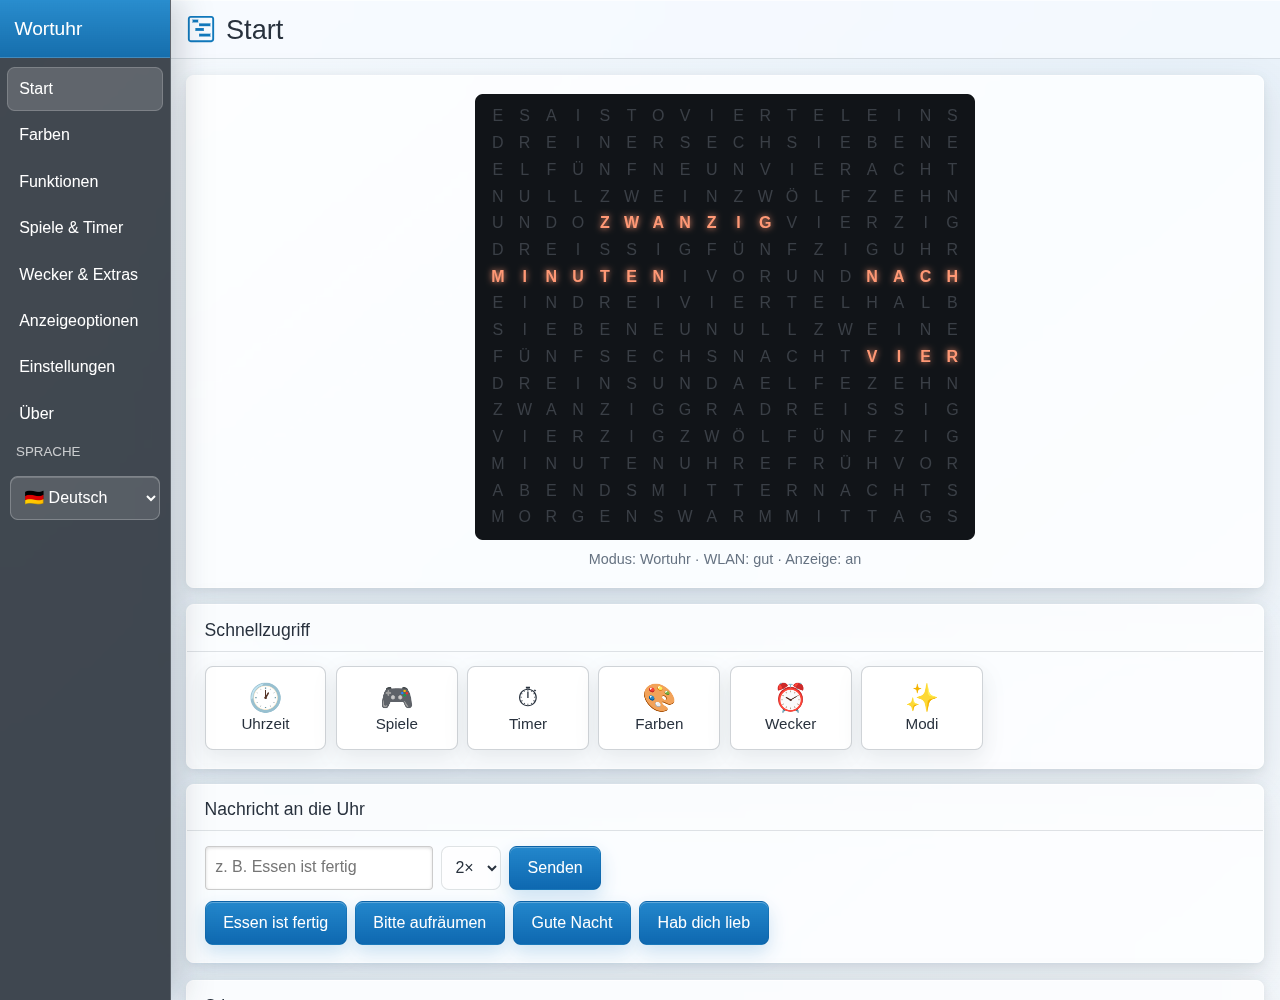
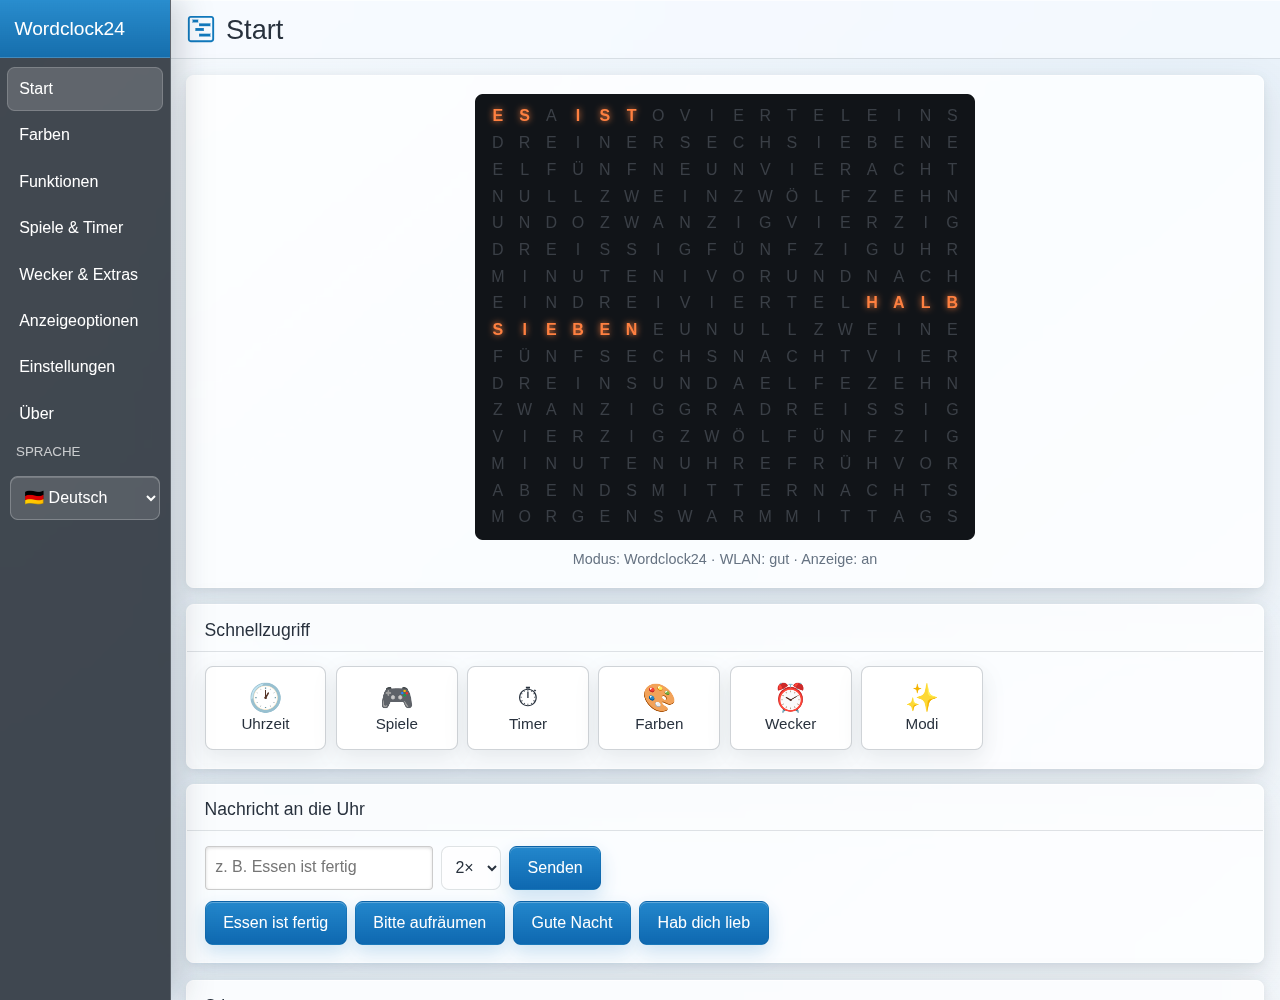
Add the SP803E photo, refresh screenshots, document the paint board
The README and the retrofit guide show the SP803E terminals; the start
page screenshots show the Wordclock24 name. Docs describe the new paint
colors, brightness key 23 and the cell * 64 + color encoding.

diff --git a/docs/Protokoll.md b/docs/Protokoll.md
@@ -53,7 +53,7 @@ dreistellig mit führenden Nullen, Texte mit Leerzeichen aufgefüllt).
 
 | Nr. | Modus | Nutzdaten |
 | --- | --- | --- |
-| 1 | Wortuhr | Farbe (siehe Weboberfläche) |
+| 1 | Wordclock24 (Uhrzeit in Worten) | Farbe (siehe Weboberfläche) |
 | 2–8, 10 | Sekunden, Laufschrift, Regenbogen, Farbwechsel, Farbe, Digitaluhr, Symbol, Übergang | wie Multilayout-Firmware |
 | 11 | Spiel | Spiel-Nr. (3) + Spielername (bis 8 Zeichen) |
 | 12 | Timer | Aktion (3): 1 Countdown, 2 Stoppuhr, 3 Pause/Weiter, 4 Beenden; Sekunden (5) |
@@ -137,15 +137,18 @@ Phase (`wait`/`go`) und `foul`. `rank` > 0 bei neuem Rekord.
 | 5 | Aktion (fallen lassen, flattern, feuern, JETZT) | |
 | 6 | Pause (nur Einzelspiele) | |
 | 11–14 | Simon: rot, grün, blau, gelb | |
-| 20 | Malbrett: Feld setzen | Feld × 16 + Farbe |
+| 20 | Malbrett: Feld setzen | Feld × 64 + Farbe |
 | 21 | Malbrett: alles füllen | Farbe |
 | 22 | Malbrett: löschen | |
+| 23 | Malbrett: Helligkeit des Bildes | 5–100 (%) |
 | 30 | Antwort (Quiz `hh*100+mm`, Kopfrechnen Zahl) | Zahl |
 | 31 | Feld antippen (Wörter finden) | Zeile × 18 + Spalte |
 | 65–90 | Buchstabe A–Z (Galgenmännchen) | |
 
-Farben (Palette, `wc24h::Palette`): 0 aus, 1 rot, 2 orange, 3 gelb, 4 grün,
-5 cyan, 6 blau, 7 lila, 8 pink, 9 weiß (10–14 gedimmte Töne).
+Farben (`wc24h::Palette`, `paletteHsv()`): 0 aus, 1 rot, 2 orange, 3 gelb,
+4 grün, 5 cyan, 6 blau, 7 lila, 8 pink, 9 weiß, 10–14 gedimmte Töne. Für das
+Malbrett zusätzlich 15–26 zwölf Farbtöne kräftig, 27–38 pastell, 39–50
+dunkel, 51 warmweiß, 52 hellgrau, 53 dunkelgrau, 54 braun.
 
 ## Stimmungen und Wecker-Effekte
 

diff --git a/docs/Home-Assistant.md b/docs/Home-Assistant.md
@@ -24,7 +24,7 @@ Im Folgenden steht `ESPWordclock` für das eingetragene Topic.
 
 | Entität | Typ | Zweck |
 | --- | --- | --- |
-| Word Clock | `light` | Ein/Aus, Helligkeit, Farbe, Effekt (Wortuhr, Digitaluhr, Laufschrift, Regenbogen …) |
+| Word Clock | `light` | Ein/Aus, Helligkeit, Farbe, Effekt (Wordclock24, Digitaluhr, Laufschrift, Regenbogen …) |
 | **Notification** | `notify` | Hinweis mit Symbol: erst das Symbol, dann der Text dreimal als Laufschrift, danach wieder die Uhrzeit |
 | Message | `notify` | setzt die Laufschrift und schaltet dauerhaft in den Laufschrift-Modus |
 | Scrolling Text | `text` | Text der Laufschrift |
@@ -125,7 +125,7 @@ actions:
 3. Zweite Automation – fertig, Hinweis auf der Uhr:
 
 ```yaml
-alias: Wortuhr – Waschmaschine fertig
+alias: Wordclock24 – Waschmaschine fertig
 triggers:
   - trigger: numeric_state
     entity_id: sensor.waschmaschine_leistung
@@ -187,7 +187,7 @@ actions:
 **Türklingel:**
 
 ```yaml
-alias: Wortuhr – Es klingelt
+alias: Wordclock24 – Es klingelt
 triggers:
   - trigger: state
     entity_id: binary_sensor.tuerklingel
@@ -203,7 +203,7 @@ actions:
 **Post im Briefkasten** (Kontaktsensor an der Klappe):
 
 ```yaml
-alias: Wortuhr – Post ist da
+alias: Wordclock24 – Post ist da
 triggers:
   - trigger: state
     entity_id: binary_sensor.briefkasten

diff --git a/README.md b/README.md
@@ -1,4 +1,4 @@
-# WC24ESP — WordClock 24h auf dem BTF-LIGHTING SP803E
+# WC24ESP — Wordclock24 auf dem BTF-LIGHTING SP803E
 
 Firmware für eine **WordClock 24h** (Layout 16 × 18 von
 [mikrocontroller.net](https://www.mikrocontroller.net/articles/WordClock_mit_WS2812)),
@@ -14,7 +14,7 @@ Nachtschaltung, Einblendungen (Overlays), die Animationen und die
 Tageslicht-Farbe — siehe [Funktionen der WordClock24h](#funktionen-der-wordclock24h).
 
 <p align="center">
-  <img src="docs/images/startseite-handy.png" alt="Startseite der Weboberfläche auf dem Handy mit Live-Vorschau der Wortuhr" width="300">
+  <img src="docs/images/startseite-handy.png" alt="Startseite der Weboberfläche auf dem Handy mit Live-Vorschau der Wordclock24" width="300">
 </p>
 
 ## Dokumentation
@@ -59,6 +59,8 @@ python3 tools/clock_type_gui.py     # Browser-GUI auf http://127.0.0.1:8765/
 ```
 
 ## Hardware: SP803E
+
+![BTF-LIGHTING SP803E: links GND/VCC für die Versorgung, rechts GND, PWM1–3, DATA (IO16) und VCC](docs/images/sp803e.jpg)
 
 | Anschluss / Pin | GPIO | Verwendung in dieser Firmware |
 | --- | --- | --- |

diff --git a/CHANGELOG.md b/CHANGELOG.md
@@ -3,6 +3,21 @@
 Alle Änderungen dieser SP803E-Variante gegenüber der
 [Multilayout-ESP-Wordclock](https://github.com/ESPWortuhr/Multilayout-ESP-Wordclock) 4.4.1.
 
+## Wordclock24, Malbrett, Korrekturen
+
+* Name in Weboberfläche, App-Symbol und Home Assistant (Gerätemodell):
+  **Wordclock24** statt „Wortuhr".
+* **Malbrett**: 40 Farben (12 Farbtöne kräftig, pastell und dunkel,
+  Warmweiß, Grautöne, Braun) und Radierer, Regler für die Helligkeit des
+  Bildes. Die Palette ist zentral in `wc24h::paletteHsv()` definiert.
+* Korrektur: Farbänderungen (z. B. Hintergrundfarbe) oder ein Tippen nach
+  einem Spiel starteten wieder Tetris. Die Seite merkte sich den Spielmodus
+  und schickte ihn mit der Farbe; die Uhr las die Farbposition als
+  Spielnummer. Beides ist abgefangen.
+* Korrektur: Die Navigationsleiste unten rutschte auf dem iPhone SE
+  (Safari) mit dem Inhalt nach oben.
+* Foto des SP803E und aktuelle Bilder der Startseite in `docs/images/`.
+
 ## Home Assistant und Dokumentation
 
 * **Hinweise aus Home Assistant**: neue Entität *Notification* (`notify`).

diff --git a/docs/Funktionen.md b/docs/Funktionen.md
@@ -61,7 +61,7 @@ kehrt zur Uhrzeit zurück. Treffer und Spielende vibrieren auf dem Handy.
 | Uhrzeit-Quiz | Uhrzeit in Worten lesen und an der Analoguhr einstellen, 10 Fragen | Regler Stunde/Minute, *Prüfen* |
 | Wörter finden | das gesuchte Wort in der Vorschau Buchstabe für Buchstabe antippen, 10 Wörter | Vorschau antippen |
 | Kopfrechnen | Aufgabe auf der Uhr lösen (+ − × :), 10 Aufgaben | Zifferntasten, *OK* |
-| Malbrett | Farbe wählen und in der Vorschau malen, auch mit dem Finger ziehen | Farbpalette, *Alles füllen*, *Löschen* |
+| Malbrett | Farbe wählen und in der Vorschau malen, auch mit dem Finger ziehen; das Bild bleibt erhalten, wenn man später zurückkommt | 40 Farben (kräftig, pastell, dunkel, Weiß- und Grautöne) und Radierer, Regler *Helligkeit*, *Alles füllen*, *Löschen* |
 
 Am PC: Pfeiltasten, Leertaste oder Enter (Aktion), P (Pause); beim
 Galgenmännchen die Buchstabentasten, bei *Farben merken* die Tasten 1–4.

diff --git a/docs/Umbau-WordClock24h.md b/docs/Umbau-WordClock24h.md
@@ -44,6 +44,8 @@ verliert bei 4 A nur etwa 0,05 V und bleibt drin.
 
 ### Verdrahtung
 
+![SP803E-Anschlüsse](images/sp803e.jpg)
+
 ```
 Verpolungsschutz Ausgang +5 V ──► SP803E links VCC
 Verpolungsschutz Ausgang GND  ──► SP803E links GND
